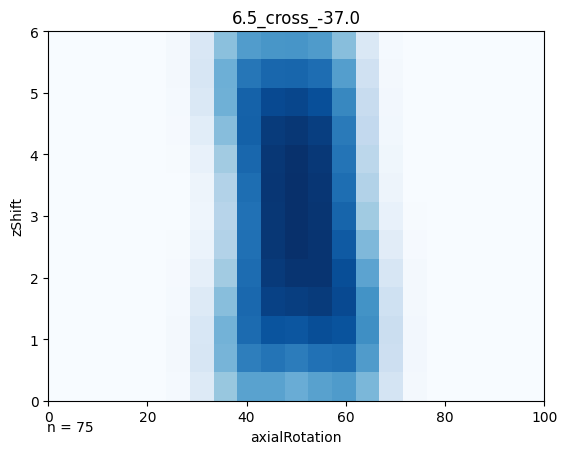
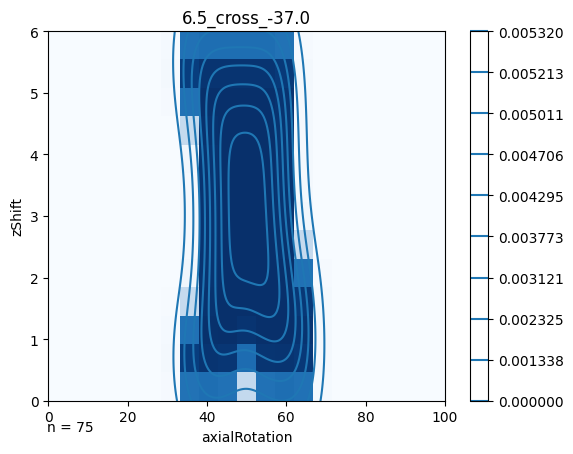
now outputs a grid for good geometries

diff --git a/2022_designAnalysisScripts/code/designGrid/findNonClashingGridPoints.py b/2022_designAnalysisScripts/code/designGrid/findNonClashingGridPoints.py
@@ -3,30 +3,32 @@ import os
 import pandas as pd
 from findNonClashingGridPointsFunc import *
 from datetime import date
+import random as rand
 
-# get the input directory
-inputDir = sys.argv[1]
-
-# get current working directory
-cwd = os.getcwd() + "/"
-
-# get the date
-today = date.today()
-today = today.strftime("%Y_%m_%d")
-
-# get the name of the input directory
-inputDirName = os.path.basename(os.path.normpath(inputDir))
-# remove the date from the input directory name
-inputDirName = inputDirName.split("_")[1]
-
-# get the output directory
-outputDir = cwd + today + "_adjustedAxAndZGridData/" + inputDirName + "/"
-
-# make the output directory if it doesn't exist
-if not os.path.exists(outputDir):
-    os.makedirs(outputDir)
-
-# hardcoded column names
+## get the input directory
+#inputDir = sys.argv[1]
+#
+## get current working directory
+#cwd = os.getcwd() + "/"
+#
+## get the date
+#today = date.today()
+#today = today.strftime("%Y_%m_%d")
+#
+## get the name of the input directory
+#inputDirName = os.path.basename(os.path.normpath(inputDir))
+## remove the date from the input directory name
+#inputDirName = inputDirName.split("_")[1]
+#
+## get the output directory
+#outputDir = cwd + today + "_adjustedAxAndZGridData/" + inputDirName + "/"
+#
+## make the output directory if it doesn't exist
+#if not os.path.exists(outputDir):
+#    os.makedirs(outputDir)
+#
+## hardcoded column names
+outputDir = sys.argv[1]
 cols = 'xShift,crossingAngle,axialRotation,zShift,energy'.split(',')
 outputFile = outputDir + 'designGeometryGrid.csv'
 
@@ -70,17 +72,43 @@ dfList = [dfXMin, dfXMax]
 min, max = str(dfXMin['xShift'].values[0]), str(dfXMax['xShift'].values[0])
 outputList = [min, max]
 acceptCutoff = 0.5
+randomGeomGrid = pd.DataFrame()
+numGeometries = 100
+
+numGeomPerCrossingAngle = int(numGeometries/len(crossingAngles))
 # loop through crossingAngle and xShift values
 for df, out in zip(dfList,outputList):
     for cross in crossingAngles:
         tmpDf = df[df['crossingAngle'] == cross]
         # plot kde for axial rotation and zShift
         outputTitle = out+'_cross_' + str(cross)
-        Z, acceptGrid = plotKde(tmpDf, 'axialRotation', 'zShift', axAndZDict, acceptCutoff, outputDir, outputTitle)
-        print(acceptGrid)
-        exit()
-        xAxis = df['axialRotation']
-        yAxis = df['zShift']
-        data = df['energy']
-        dataColumn = 'energy'
-        plotKdeOverlay(Z, xAxis, 0, 100, yAxis, 0, 6, data, dataColumn, outputDir, outputTitle)
+        Z, tmpGrid = plotKde(tmpDf, 'axialRotation', 'zShift', axAndZDict, acceptCutoff, outputDir, outputTitle)
+        # add col names axialRot, zShift, and density
+        tmpGrid.columns = ['axialRotation', 'zShift', 'density'] 
+        # pick x random geometries from the acceptGrid
+        for i in range(0,numGeomPerCrossingAngle):
+            randRow = tmpGrid.sample(n=1)
+            # get a random float between -5 and +5
+            randAxFloat = rand.uniform(-5,5)
+            # add the random float to the axial rotation
+            randRow['axialRotation'] = randRow['axialRotation'] + randAxFloat
+            # get a random float between -0.5 and +0.5
+            randZFloat = rand.uniform(-0.5,0.5)
+            # add the random float to the zShift
+            randRow['zShift'] = randRow['zShift'] + randZFloat
+            # add the random row to the randomGrid
+            randomGeomGrid = pd.concat([randomGeomGrid, randRow], ignore_index=True)
+        # TODO: try running this tomorrow
+        #xAxis = df['axialRotation']
+        #yAxis = df['zShift']
+        #data = df['energy']
+        #dataColumn = 'energy'
+        #plotKdeOverlay(Z, xAxis, 0, 100, yAxis, 0, 6, data, dataColumn, outputDir, outputTitle)
+
+# write the acceptGrid to a csv file
+randomGeomGrid.to_csv(outputDir + 'randomGeometryDesignGrid.csv', index=False) 
+
+# define set of random geometries to design on from the acceptGrid
+for i in range(0,numGeometries):
+    # get a random row from the acceptGrid
+    randRow = acceptGrid.sample(n=1)

diff --git a/2022_designAnalysisScripts/code/designGrid/findNonClashingGridPointsFunc.py b/2022_designAnalysisScripts/code/designGrid/findNonClashingGridPointsFunc.py
@@ -80,7 +80,8 @@ def plotKde(df, xAxis, yAxis, xAndYDict, acceptCutoff, outputDir, title):
 
     # output the figure
     outputTitle = xAxis+"_v_"+yAxis+"_"+title
-    sns.kdeplot(x=df[xAxis], y=df[yAxis], shade=False, cbar=True, cmap="inferno_r", levels = 10, thresh=False)
+    #sns.kdeplot(x=df[xAxis], y=df[yAxis], shade=False, cbar=True, cmap="inferno_r", levels = 10, thresh=False)
+    sns.kdeplot(x=df[xAxis], y=df[yAxis], shade=False, cbar=True, levels = 10, thresh=False)
     plt.savefig(outputDir+outputTitle+".png", bbox_inches='tight')
     
     Zout = kernel(positions).T
@@ -96,14 +97,13 @@ def getAcceptGridCsv(Z, positions, outputDir, outputTitle, acceptCutoff):
     Z = Z/zMax
     # round all values to 2 decimal places
     Z = np.around(Z, 2)
-    # remove all values below the cutoff
-    #TODO: start here tomorrow, output the acceptGrid properly
-    Z = Z[Z < acceptCutoff]
     # Output the density data for each geometry
     for currentIndex,elem in enumerate(Z):
-        s1 = '%f, %f, %f\n'%(positions[0][currentIndex], positions[1][currentIndex], Z[currentIndex] )
-        # add to the dataframe
-        outputDf = pd.concat([outputDf, pd.DataFrame([[positions[0][currentIndex], positions[1][currentIndex], Z[currentIndex]]], columns=['x', 'y', 'z'])])
+        # remove all values below the cutoff
+        if Z[currentIndex] > acceptCutoff:
+            s1 = '%f, %f, %f\n'%(positions[0][currentIndex], positions[1][currentIndex], Z[currentIndex] )
+            # add to the dataframe
+            outputDf = pd.concat([outputDf, pd.DataFrame([[positions[0][currentIndex], positions[1][currentIndex], Z[currentIndex]]], columns=['x', 'y', 'z'])])
     return outputDf
 
 def plotKdeOverlay(kdeZScores, xAxis, xmin, xmax, yAxis, ymin, ymax, data, dataColumn, outputDir, outputTitle):
